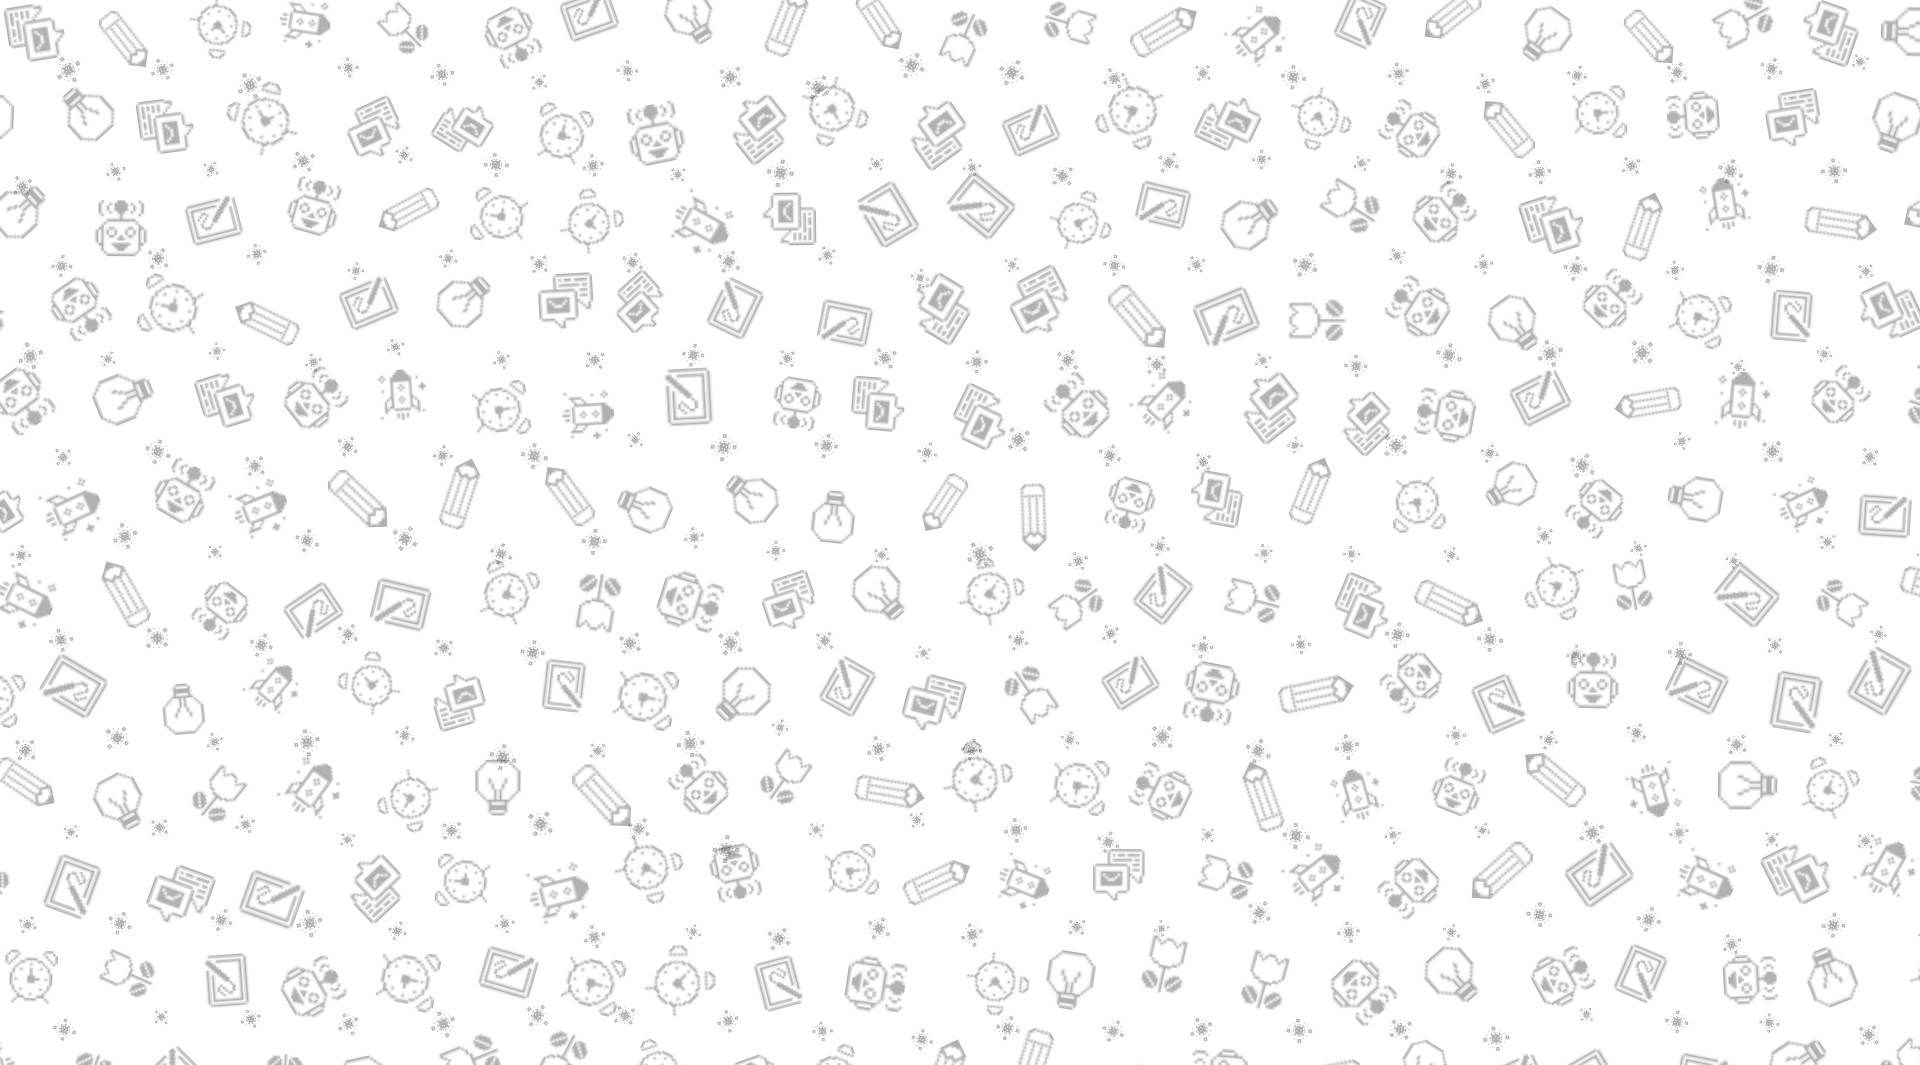
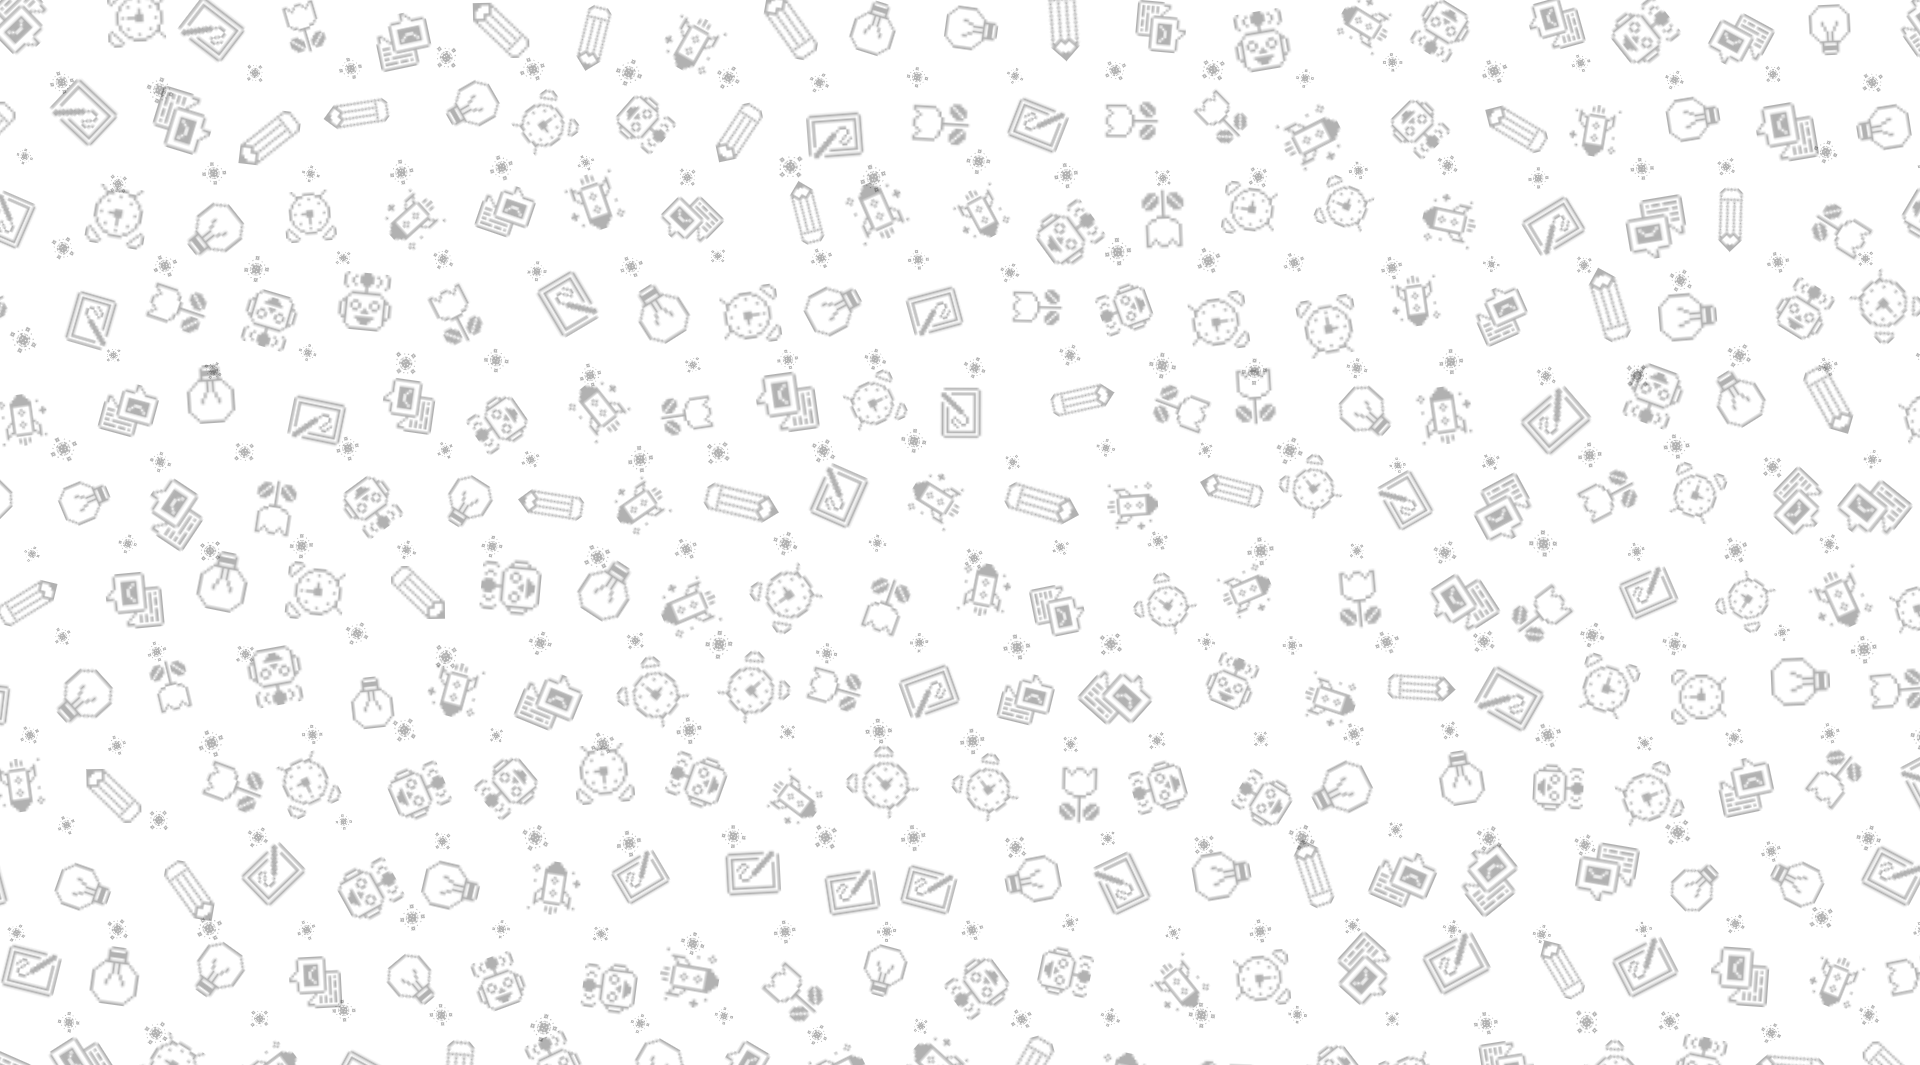
sytle: Change pattern img in start page to png

Changed region(s): [[0.0, 0.0, 1.0, 1.0], [0.5625, 0.9915, 0.5938, 1.0]]

diff --git a/client/src/components/ui/BackgroundCanvas.tsx b/client/src/components/ui/BackgroundCanvas.tsx
@@ -1,134 +1,11 @@
 import { useEffect, useRef, MouseEvent } from 'react';
 import { Point } from '@troublepainter/core';
-import particle_1 from '@/assets/patterns/particle-1.png';
-import pattern_0 from '@/assets/patterns/pattern-0.png';
-import pattern_1 from '@/assets/patterns/pattern-1.png';
-import pattern_2 from '@/assets/patterns/pattern-2.png';
-import pattern_3 from '@/assets/patterns/pattern-3.png';
-import pattern_4 from '@/assets/patterns/pattern-4.png';
-import pattern_5 from '@/assets/patterns/pattern-5.png';
-import pattern_6 from '@/assets/patterns/pattern-6.png';
-import pattern_7 from '@/assets/patterns/pattern-7.png';
-import {
-  CURSOR_LENGTH,
-  CURSOR_WIDTH,
-  DELETE_INTERVAL,
-  GAP,
-  OFFSET,
-  PARTICLE_SIZE,
-  RANDOM_POINT_RANGE_HEIGHT,
-  RANDOM_POINT_RANGE_WIDTH,
-  SIZE,
-} from '@/constants/backgroundConstants';
+import { CURSOR_LENGTH, CURSOR_WIDTH, DELETE_INTERVAL } from '@/constants/backgroundConstants';
 import { getCanvasContext } from '@/utils/getCanvasContext';
 import { getDrawPoint } from '@/utils/getDrawPoint';
 
-type ImgType = 'particle' | 'pattern';
-
-interface PatternData {
-  img: HTMLImageElement;
-  type: ImgType;
-}
-
-interface patterns {
-  pattern: PatternData[];
-  particle: PatternData[];
-}
-
-const randomizeWidth = () => Math.random() * RANDOM_POINT_RANGE_WIDTH - RANDOM_POINT_RANGE_WIDTH / 2;
-const randomizeHeight = () => Math.random() * RANDOM_POINT_RANGE_HEIGHT - RANDOM_POINT_RANGE_HEIGHT / 2;
-
-const redraw = (
-  canvas: HTMLCanvasElement,
-  cursorCanvas: HTMLCanvasElement,
-  ctx: CanvasRenderingContext2D,
-  pattern: { img: HTMLImageElement; type: string }[],
-  particle: { img: HTMLImageElement; type: string }[],
-) => {
-  canvas.width = canvas.offsetWidth;
-  canvas.height = canvas.offsetHeight;
-
-  cursorCanvas.width = canvas.offsetWidth;
-  cursorCanvas.height = canvas.offsetHeight;
-
-  ctx.clearRect(0, 0, canvas.width, canvas.height);
-  ctx.globalAlpha = 0.3;
-
-  const rows = Math.ceil(canvas.height / (SIZE + GAP));
-  const cols = Math.ceil(canvas.width / (SIZE + GAP));
-
-  for (let row = 0; row < rows; row++) {
-    for (let col = -1; col < cols; col++) {
-      const patternX = col * (SIZE + GAP) + (row % 2 === 0 ? 0 : OFFSET);
-      const patternY = row * (SIZE + GAP);
-
-      const random1 = Math.random() * 10 - 5;
-
-      ctx.beginPath();
-      ctx.save();
-      ctx.translate(patternX + SIZE / 2, patternY + SIZE / 2);
-      ctx.rotate(Math.random() * 2 * Math.PI);
-      ctx.drawImage(
-        pattern[Math.floor(Math.random() * pattern.length)].img,
-        -SIZE / 2 + randomizeWidth(),
-        -SIZE / 2 + randomizeHeight(),
-        SIZE + random1,
-        SIZE + random1,
-      );
-      ctx.restore();
-
-      const random2 = Math.random() * 10 - 5;
-      const particleX = patternX + SIZE;
-      const particleY = patternY + SIZE + (GAP - PARTICLE_SIZE) / 2 + randomizeWidth();
-      ctx.save();
-      ctx.translate(particleX + PARTICLE_SIZE / 2, particleY + PARTICLE_SIZE / 2);
-      ctx.rotate(Math.random() * 2 * Math.PI);
-      ctx.drawImage(
-        particle[Math.floor(Math.random() * particle.length)].img,
-        -PARTICLE_SIZE / 2 + randomizeWidth(),
-        -PARTICLE_SIZE / 2,
-        PARTICLE_SIZE + random2,
-        PARTICLE_SIZE + random2,
-      );
-      ctx.restore();
-      ctx.fill();
-    }
-  }
-};
-
-/*
-const getPatternType = (src: string): ImgType => {
-  const paths = src.split('/');
-  const type = 'pattern';
-  if (!(type === 'pattern' || type === 'particle')) throw new Error('파츠 파일명이 잘못되었음.');
-  debugger;
-  return type;
-};
-*/
-
-const getImageLists = (patterns: string[]): patterns => {
-  const lists: patterns = {
-    pattern: [],
-    particle: [],
-  };
-
-  patterns.forEach((src, idx) => {
-    const img = new Image();
-    img.src = src;
-    const type = idx === patterns.length - 1 ? 'particle' : 'pattern';
-
-    //const type = getPatternType(/*src*/);
-
-    lists[type as keyof patterns].push({ img, type });
-  });
-
-  return lists;
-};
-
 const Background = ({ className }: { className: string }) => {
-  const bgCanvasRef = useRef<HTMLCanvasElement>(null);
   const cursorCanvasRef = useRef<HTMLCanvasElement>(null);
-
   const cursorAnimation = useRef<number>();
 
   const pointsRef = useRef<Point[]>([]);
@@ -136,54 +13,17 @@ const Background = ({ className }: { className: string }) => {
   const drawTimeRef = useRef(performance.now());
   const deleteTimeRef = useRef(performance.now());
 
-  // 패턴 찍기
-  useEffect(() => {
-    const { canvas, ctx } = getCanvasContext(bgCanvasRef);
-    const { canvas: cursorCanvas } = getCanvasContext(cursorCanvasRef);
-
-    const patterns = [
-      pattern_0,
-      pattern_1,
-      pattern_2,
-      pattern_3,
-      pattern_4,
-      pattern_5,
-      pattern_6,
-      pattern_7,
-      particle_1,
-    ];
-    /* 
-    const patterns_vite: Record<string, { default: string }> = import.meta.glob('@/assets/patterns/*.png', {
-      eager: true,
-    });
-    const patterns = Object.values(patterns_vite).map((module) => module.default);
-*/
-    const { pattern, particle } = getImageLists(patterns);
-
-    Promise.all([
-      Promise.all(pattern.map((imgData) => new Promise((res) => (imgData.img.onload = res)))),
-      Promise.all(particle.map((imgData) => new Promise((res) => (imgData.img.onload = res)))),
-    ])
-      .then(() => {
-        redraw(canvas, cursorCanvas, ctx, pattern, particle);
-      })
-      .catch((err) => {
-        console.error(err);
-      });
-
-    const handleResize = () => {
-      redraw(canvas, cursorCanvas, ctx, pattern, particle);
-    };
-
-    window.addEventListener('resize', handleResize);
-    return () => {
-      window.removeEventListener('resize', handleResize);
-    };
-  }, []);
-
   // 커서 그리기
   useEffect(() => {
     const { canvas, ctx } = getCanvasContext(cursorCanvasRef);
+
+    const handleResize = () => {
+      canvas.width = canvas.offsetWidth;
+      canvas.height = canvas.offsetHeight;
+    };
+
+    handleResize();
+    window.addEventListener('resize', handleResize);
 
     const drawAni = () => {
       const now = performance.now();
@@ -227,6 +67,7 @@ const Background = ({ className }: { className: string }) => {
 
     return () => {
       if (cursorAnimation.current) cancelAnimationFrame(cursorAnimation.current);
+      window.removeEventListener('resize', handleResize);
     };
   }, []);
 
@@ -244,7 +85,6 @@ const Background = ({ className }: { className: string }) => {
 
   return (
     <div className={className}>
-      <canvas ref={bgCanvasRef} className="absolute h-full w-full" />
       <canvas
         ref={cursorCanvasRef}
         className="absolute h-full w-full cursor-none"

diff --git a/client/src/pages/MainPage.tsx b/client/src/pages/MainPage.tsx
@@ -32,7 +32,11 @@ const MainPage = () => {
           isExiting ? 'bg-transparent' : 'bg-gradient-to-b from-violet-950 via-violet-800 to-fuchsia-700',
         )}
       >
-        <Background className={cn('absolute -z-10 h-full w-full')} />
+        <Background
+          className={cn(
+            'before:bg-patternImg before:contents-[""] absolute -z-10 h-full w-full before:absolute before:left-0 before:top-0 before:h-full before:w-full before:bg-cover before:bg-center',
+          )}
+        />
         <div className="duration-1000 animate-in fade-in slide-in-from-top-8">
           <Logo variant="main" className="w-full transition duration-300 hover:scale-110 hover:brightness-[1.12]" />
         </div>

diff --git a/client/src/layouts/GameLayout.tsx b/client/src/layouts/GameLayout.tsx
@@ -27,7 +27,7 @@ const GameLayout = () => {
       <BrowserNavigationGuard />
       <NavigationModal />
       <div
-        className={`before:bg-patternImg before:contents-[''] relative flex min-h-screen flex-col justify-start bg-gradient-to-b from-violet-950 via-violet-800 to-fuchsia-800 before:absolute before:left-0 before:top-0 before:h-full before:w-full lg:py-5`}
+        className={`before:bg-patternImg before:contents-[''] relative flex min-h-screen flex-col justify-start bg-gradient-to-b from-violet-950 via-violet-800 to-fuchsia-800 before:absolute before:left-0 before:top-0 before:h-full before:w-full before:bg-cover before:bg-center lg:py-5`}
       >
         {/* 상단 헤더 */}
         <GameHeader />